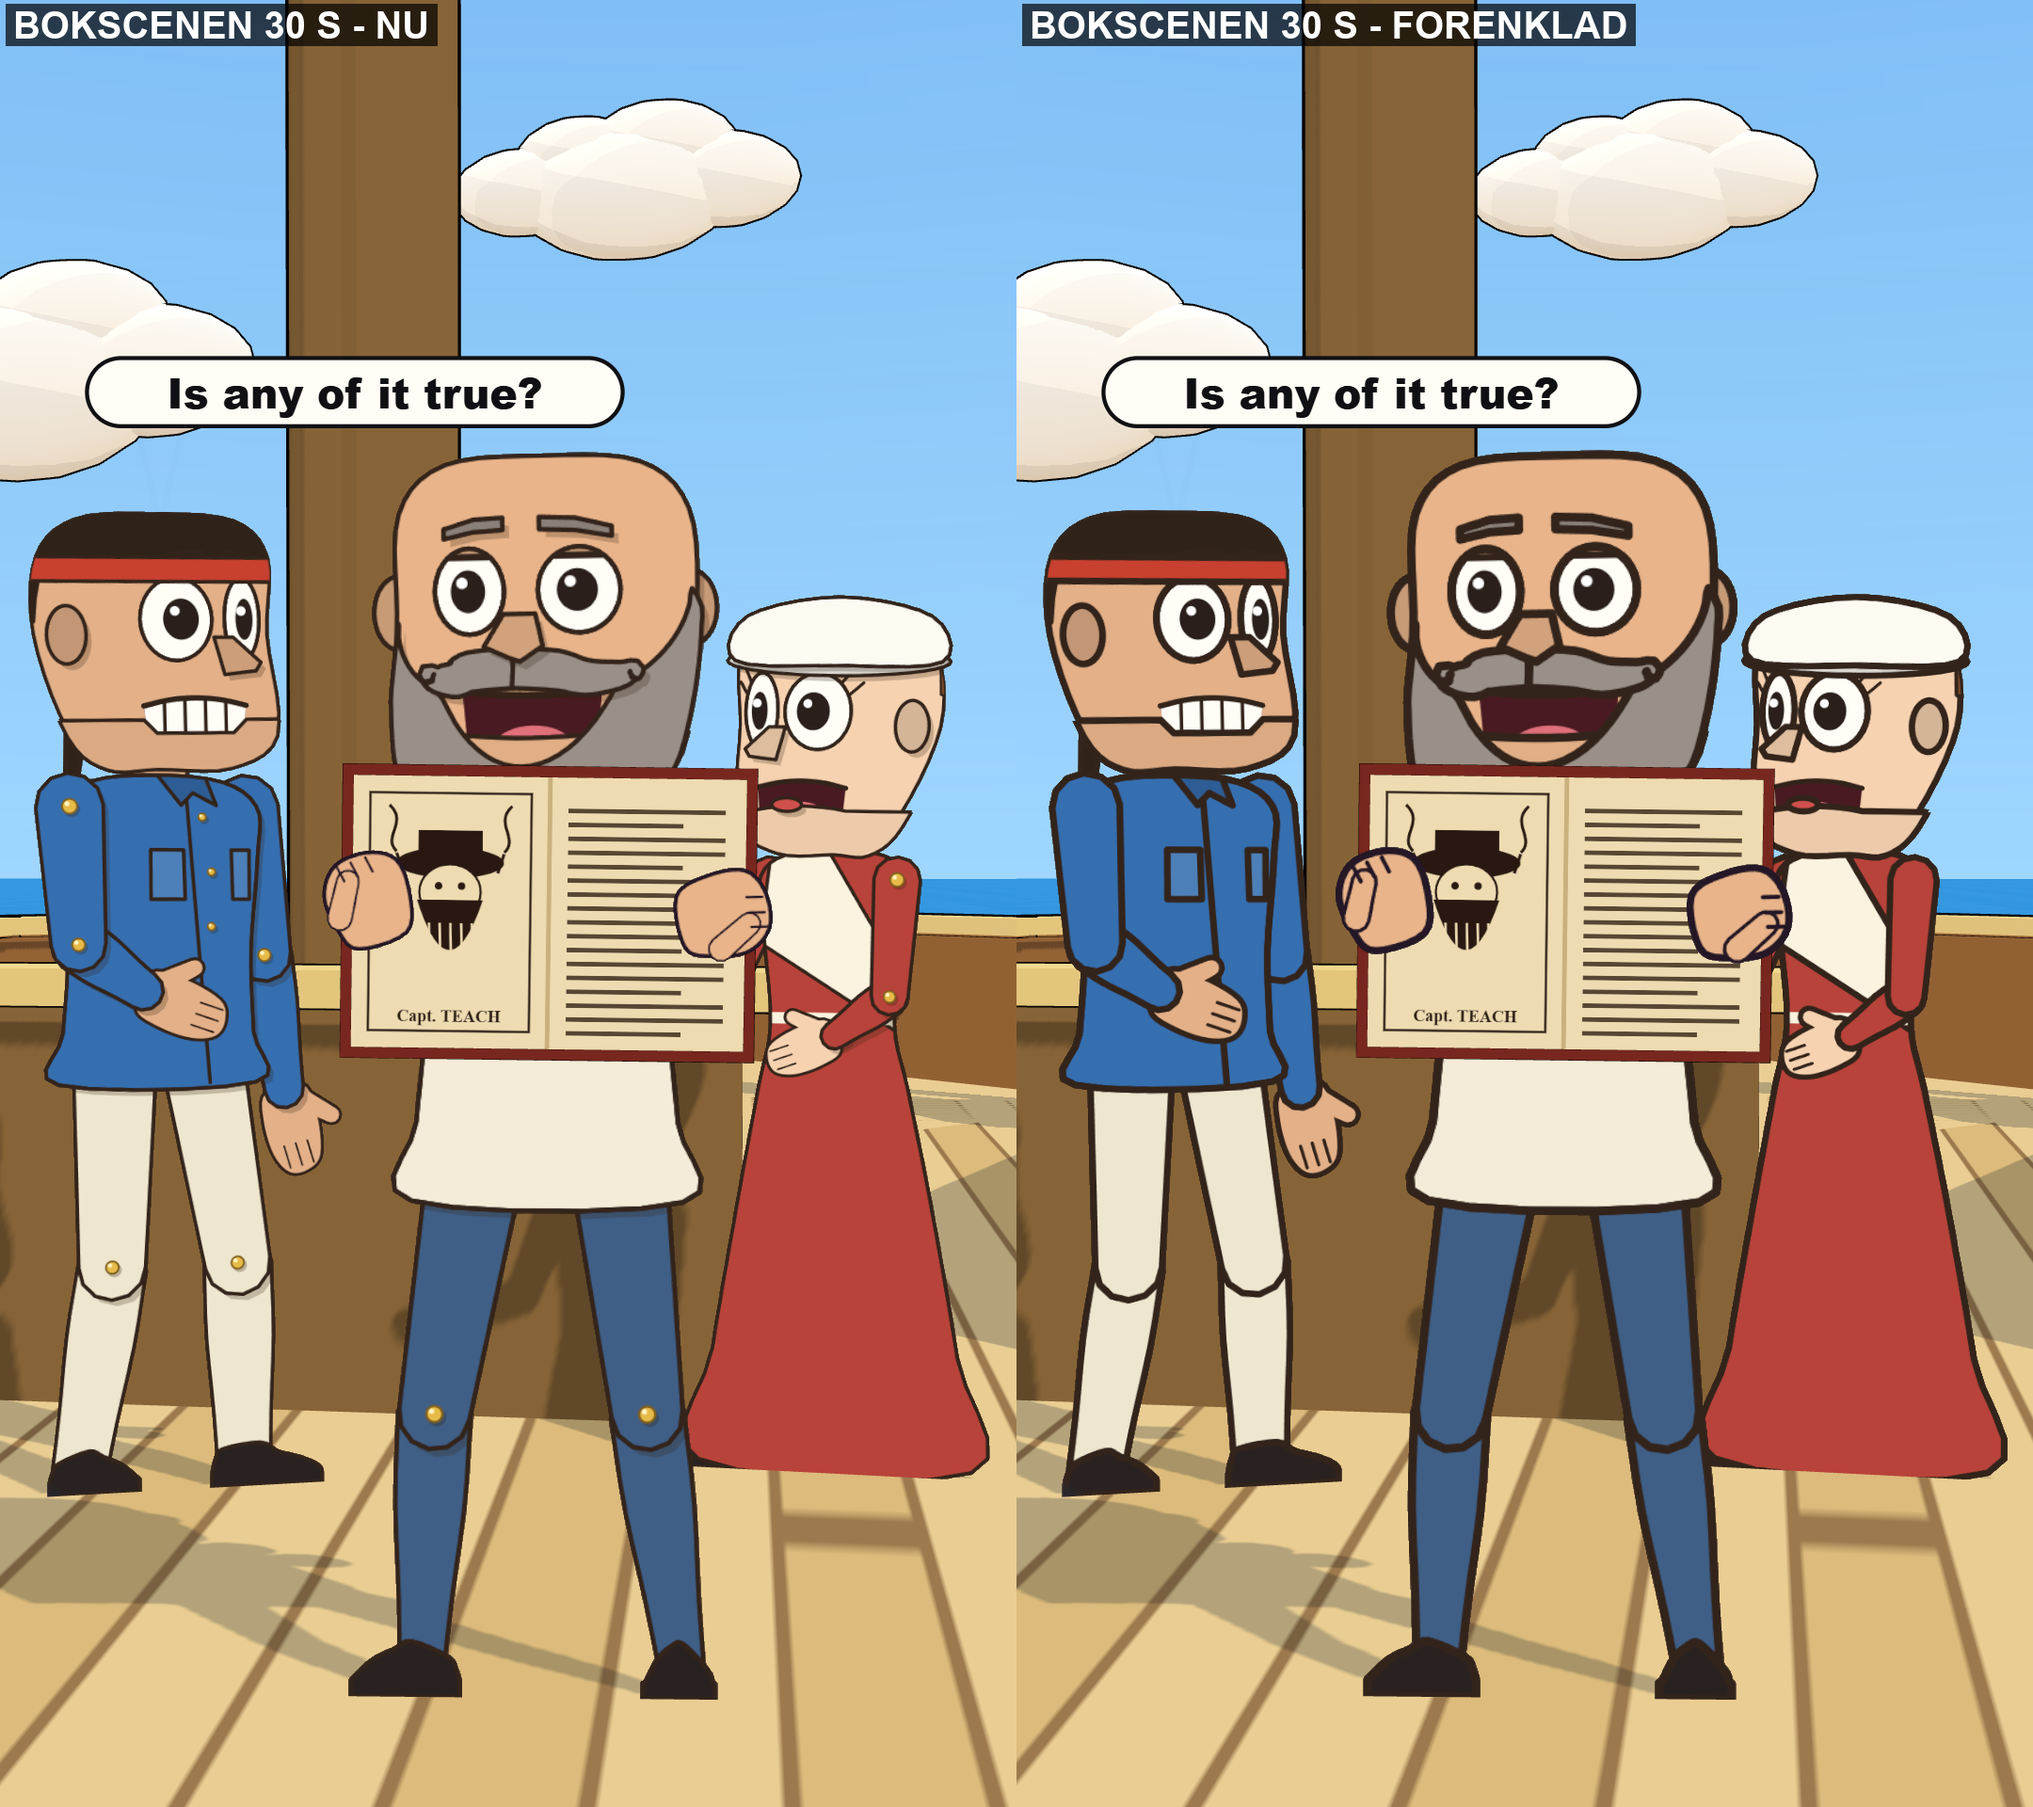
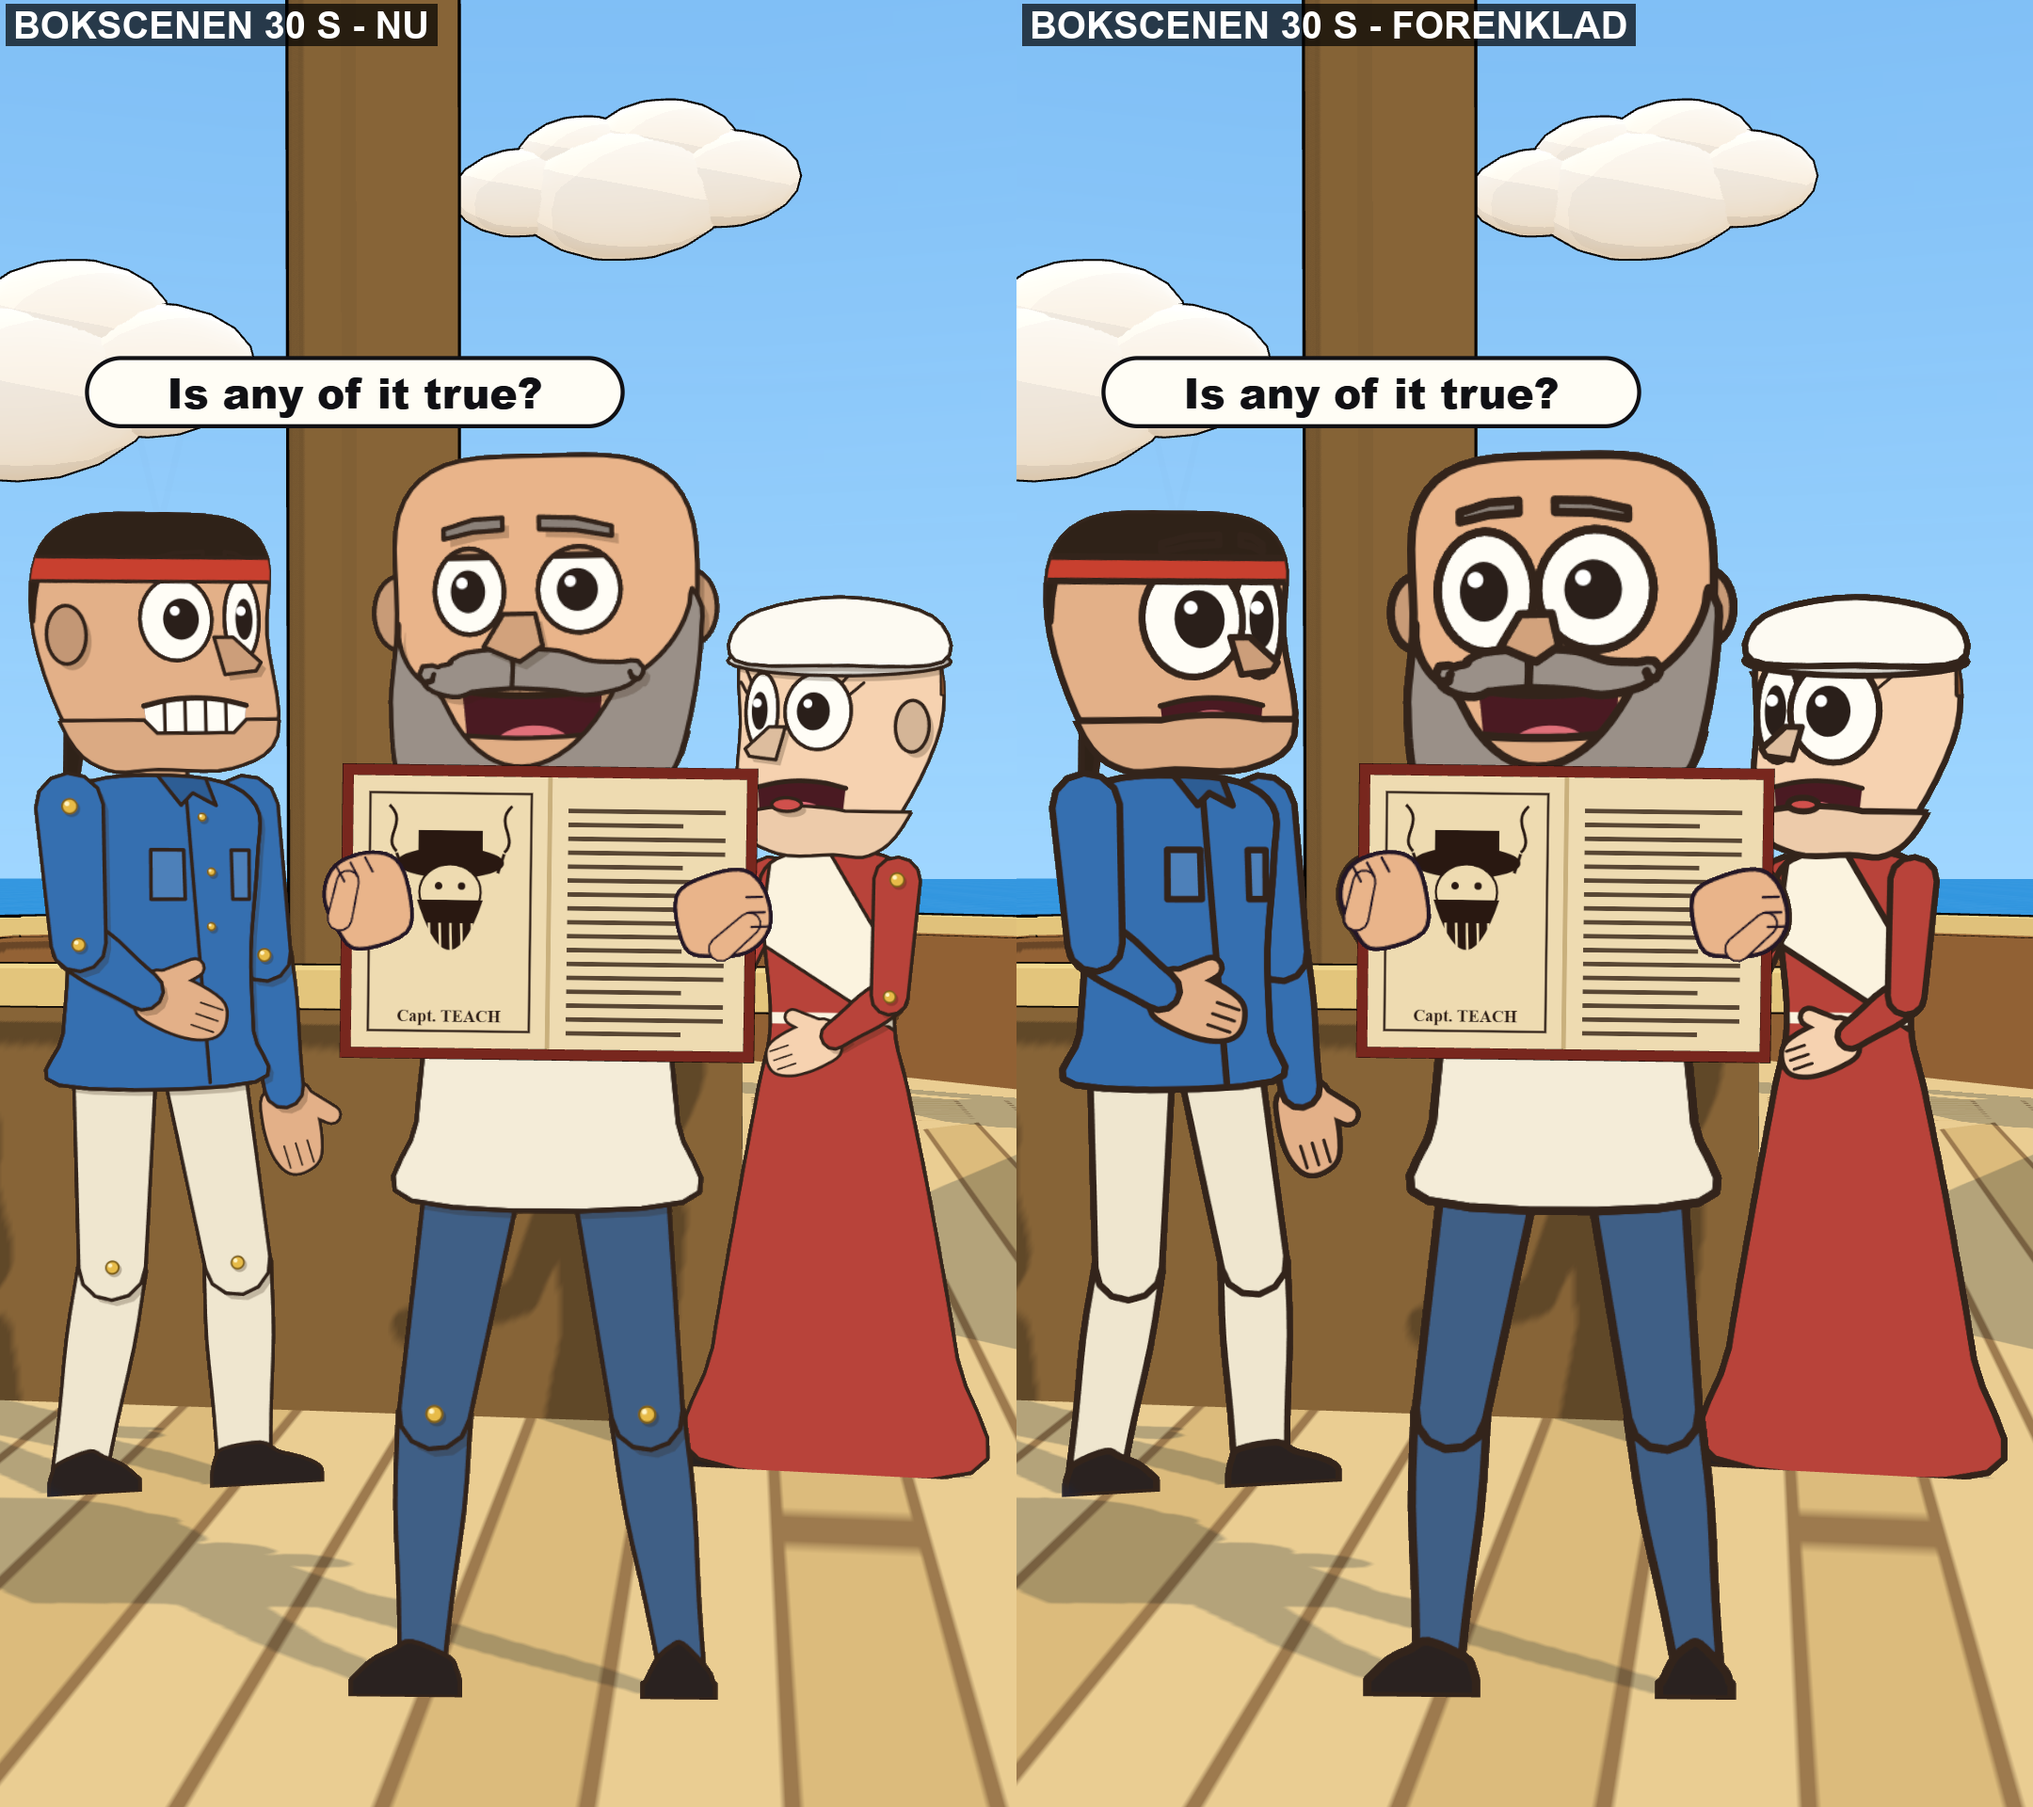
Simplified surface, round 2 of the comparison sheet (the review's three points): the eyes really 1.4x (the factor had gone to ink's eye(), which the figures do not use; capped at 1.45 overall so that the boy's eyes, already 1.32, stay under his headband), no resting lid with its line (blinks and hea

diff --git a/engine/src/craft/cast.ts b/engine/src/craft/cast.ts
@@ -226,7 +226,7 @@ const drawHead = (k: Ink, L: Look, phiTrue: number, f: Face, o: FigOpts) => {
     // the jaw is its own card: it slides down over a dark card when he speaks. The mouth is large and lies clear of the moustache,
     // so that it reads at phone size: a line that bends with the mood when shut, a dark opening with a tongue (and teeth in a laugh) when open
     const sm = f.smile ?? 0.25, mw = (0.44 + 0.12 * Math.max(sm, 0)) * w;
-    const c0 = at(h, 0, 0.5).x, isOpen = m > 0.04, clench = !!L.mouth2 && isOpen && sm < -0.3 && m < 0.35, bend = L.mouth2 && isOpen ? (clench ? 1 : sm) : 0;
+    const c0 = at(h, 0, 0.5).x, isOpen = m > 0.04, clench = !STYLE.simple && !!L.mouth2 && isOpen && sm < -0.3 && m < 0.35, bend = L.mouth2 && isOpen ? (clench ? 1 : sm) : 0;
     // the corrected mouth: the upper edge of the opening and the lower lip (the top of the jaw card) bend with the mood
     const lipY = (x: number) => clench ? 0.055 * H * Math.min(1, Math.max(0, (1 - Math.abs(x - c0) / mw) / 0.25)) : bend * 0.05 * H * Math.max(0, 1 - ((x - c0) / mw) ** 2);      // clenched teeth: the lower lip is drawn straight down off them, so the mouth is an arch on a flat foot
     if (vis && isOpen && L.mouth2) { k.clip(skull, () => {
@@ -295,7 +295,7 @@ const drawHead = (k: Ink, L: Look, phiTrue: number, f: Face, o: FigOpts) => {
     const eye = (s: number) => {
       const q = at(h, s * 28, 0.8); if (q.d < 0.1 * b) return;
       k.mark(s < 0 ? "eyeA" : "eyeB", q.x, yEye);
-      const fs = clamp(Math.cos(s * 28 * R + phi), 0.42, 1) ** 0.85, r = 0.32 * a * EY, rx = r * fs, ry = r * (1 + 0.16 * (f.wide ?? 0)), ball = ellPts(q.x, yEye, rx, ry), gz = f.gaze ?? [0, 0], lid = f.lid ?? 0.16;
+      const fs = clamp(Math.cos(s * 28 * R + phi), 0.42, 1) ** 0.85, r = 0.32 * a * (STYLE.simple ? Math.min(EY * 1.4, Math.max(EY, 1.45)) : EY), rx = r * fs, ry = r * (1 + 0.16 * (f.wide ?? 0)), ball = ellPts(q.x, yEye, rx, ry), gz = f.gaze ?? [0, 0], lid = f.lid ?? 0.16;
       // a shut eye is one arc and nothing else (no outline of the open eye is left round it, which read as spectacles): it bows upward
       // in a smile and downward otherwise
       const cx = (x: number) => { const m = k.g.getTransform(); return m.a * x + m.c * yEye + m.e; }, one = Math.abs(f.shut ?? 0) > 0.5 && Math.sign(cx(q.x) - cx(at(h, 0, 0.8).x)) === Math.sign(f.shut ?? 0);
@@ -303,7 +303,7 @@ const drawHead = (k: Ink, L: Look, phiTrue: number, f: Face, o: FigOpts) => {
       if (shut) k.line(spline([[q.x - rx * 0.86, yEye - bow * ry * 0.14], [q.x, yEye + bow * ry * 0.34], [q.x + rx * 0.86, yEye - bow * ry * 0.14]], false, 8), 6.4 * u);
       else { k.shape(ball, "#fffdf6"); k.clip(ball, () => {
         const px = q.x + clamp(gz[0] * 0.5 + h.sin * 0.22 + ahead * 0.5, -0.56, 0.56) * rx, py = yEye + gz[1] * ry * 0.5; k.shape(ellPts(px, py, rx * 0.5, ry * 0.5), "#2a1f1a", 0); k.dot(px - rx * 0.17, py - ry * 0.2, r * 0.13, "#ffffff");
-        if (lid > 0.01) { const y = yEye - ry + 2 * ry * lid; k.shape([[q.x - rx - 2, yEye - ry - 2], [q.x + rx + 2, yEye - ry - 2], [q.x + rx + 2, y], [q.x - rx - 2, y]], shade(skin, 0.86), 0); k.line([[q.x - rx - 2, y], [q.x + rx + 2, y]], 4.6 * u, LINE, "butt"); }
+        if (lid > (STYLE.simple ? 0.35 : 0.01)) { const y = yEye - ry + 2 * ry * lid; k.shape([[q.x - rx - 2, yEye - ry - 2], [q.x + rx + 2, yEye - ry - 2], [q.x + rx + 2, y], [q.x - rx - 2, y]], STYLE.simple ? skin : shade(skin, 0.86), 0); if (!STYLE.simple) k.line([[q.x - rx - 2, y], [q.x + rx + 2, y]], 4.6 * u, LINE, "butt"); }
       });
       k.shape(ball, null); }
       if (L.lash) for (const j of [0, 1]) k.line([[q.x + s * rx * (0.7 + 0.25 * j) * (h.cos > 0.3 ? 1 : 0.4), yEye - ry * (0.75 - 0.3 * j)], [q.x + s * rx * (1.05 + 0.3 * j) * (h.cos > 0.3 ? 1 : 0.4), yEye - ry * (1.1 - 0.35 * j)]], 3.4);
@@ -322,7 +322,7 @@ const drawHead = (k: Ink, L: Look, phiTrue: number, f: Face, o: FigOpts) => {
       piece(k, hull([[n1.x, -0.49 * H], [n2.x, -0.49 * H], [c1.x + out * 0.5, -0.385 * H], [c2.x + out * 0.5, -0.385 * H], [t0.x + out, -0.385 * H], [t0.x + out * 0.86, -0.35 * H], [t0.x, -0.335 * H]]), shade(skin, 0.9));
     }
   }
-  for (const e of ears) if (Math.abs(e.e.d) >= 0.55 * a && e.e.d > 0) e.draw();
+  for (const e of ears) if (Math.abs(e.e.d) >= 0.55 * a && e.e.d > 0 && !STYLE.simple) e.draw();
   // --- what sits on the head ---
   if (HAT === "cap") {
     capDraw(k, L, h, o.capLift ?? 0, away, "front");

diff --git a/engine/src/craft/world/people.ts b/engine/src/craft/world/people.ts
@@ -91,7 +91,7 @@ export const fingersCard = (D: Design, pose0: Pose, o: FigOpts, sp0: Spot, cam: 
   // the same card as the figure's (plantFix), so that the fingers lie on its hands
   const fx = plantFix(P, pose0, sp0, cam, mpu0), pose = fx.pose, mpu = fx.mpu, sp: Spot = { ...sp0, at: fx.at };
   const kinds = whole ? { L: o.handL ?? "relaxed", R: o.handR ?? "relaxed" } : undefined;
-  const pl = place(`${D.id}:fingers:${sides.join()}:${whole ? `${kinds!.L},${kinds!.R}` : ""}:${sp.at.join()}:${cam.join()}`, cw, ch, 0.93, s, mpu, sp, cam, 0, (g, yaw) => D.fingers!(new Ink(g, lineFor(D.ol, mpu, sp.at, cam, seen)), solve(P, pose, yaw), sides, kinds), seen);
+  const pl = place(`${D.id}:fingers:${sides.join()}:${whole ? `${kinds!.L},${kinds!.R}` : ""}:${sp.at.join()}:${cam.join()}`, cw, ch, 0.93, s, mpu, sp, cam, 0, (g, yaw) => D.fingers!(new Ink(g, lineFor(D.ol, mpu, sp.at, cam, seen), 1.1), solve(P, pose, yaw), sides, kinds), seen);
   pl.mesh.castShadow = false; return pl.mesh;
 };
 /** a four-legged animal; h = height at the shoulder in metres. `collar` = where a chain meets its collar, in the world */

diff --git a/engine/src/craft/ink.ts b/engine/src/craft/ink.ts
@@ -66,7 +66,8 @@ export const seg = (a: P2, b: P2, wa: number, wb: number, bulge = 0, at = 0.35, 
 
 export class Ink {
   g: CanvasRenderingContext2D; ol: number; ink = INK;
-  constructor(g: CanvasRenderingContext2D, ol = 9) { this.g = g; this.ol = STYLE.simple ? ol * 1.8 : ol; }
+  /** thick = how much heavier the simplified line is (fingers drawn over a held thing take less: they lie over a hand already outlined) */
+  constructor(g: CanvasRenderingContext2D, ol = 9, thick = 1.8) { this.g = g; this.ol = STYLE.simple ? ol * thick : ol; }
   /** places the drawing has noted while it was drawn (an eye, say), in canvas pixels: so that the stage can put a real thing there */
   marks: Record<string, P2> = {};
   mark(name: string, x: number, y: number) { const m = this.g.getTransform(); this.marks[name] = [m.a * x + m.c * y + m.e, m.b * x + m.d * y + m.f]; }
